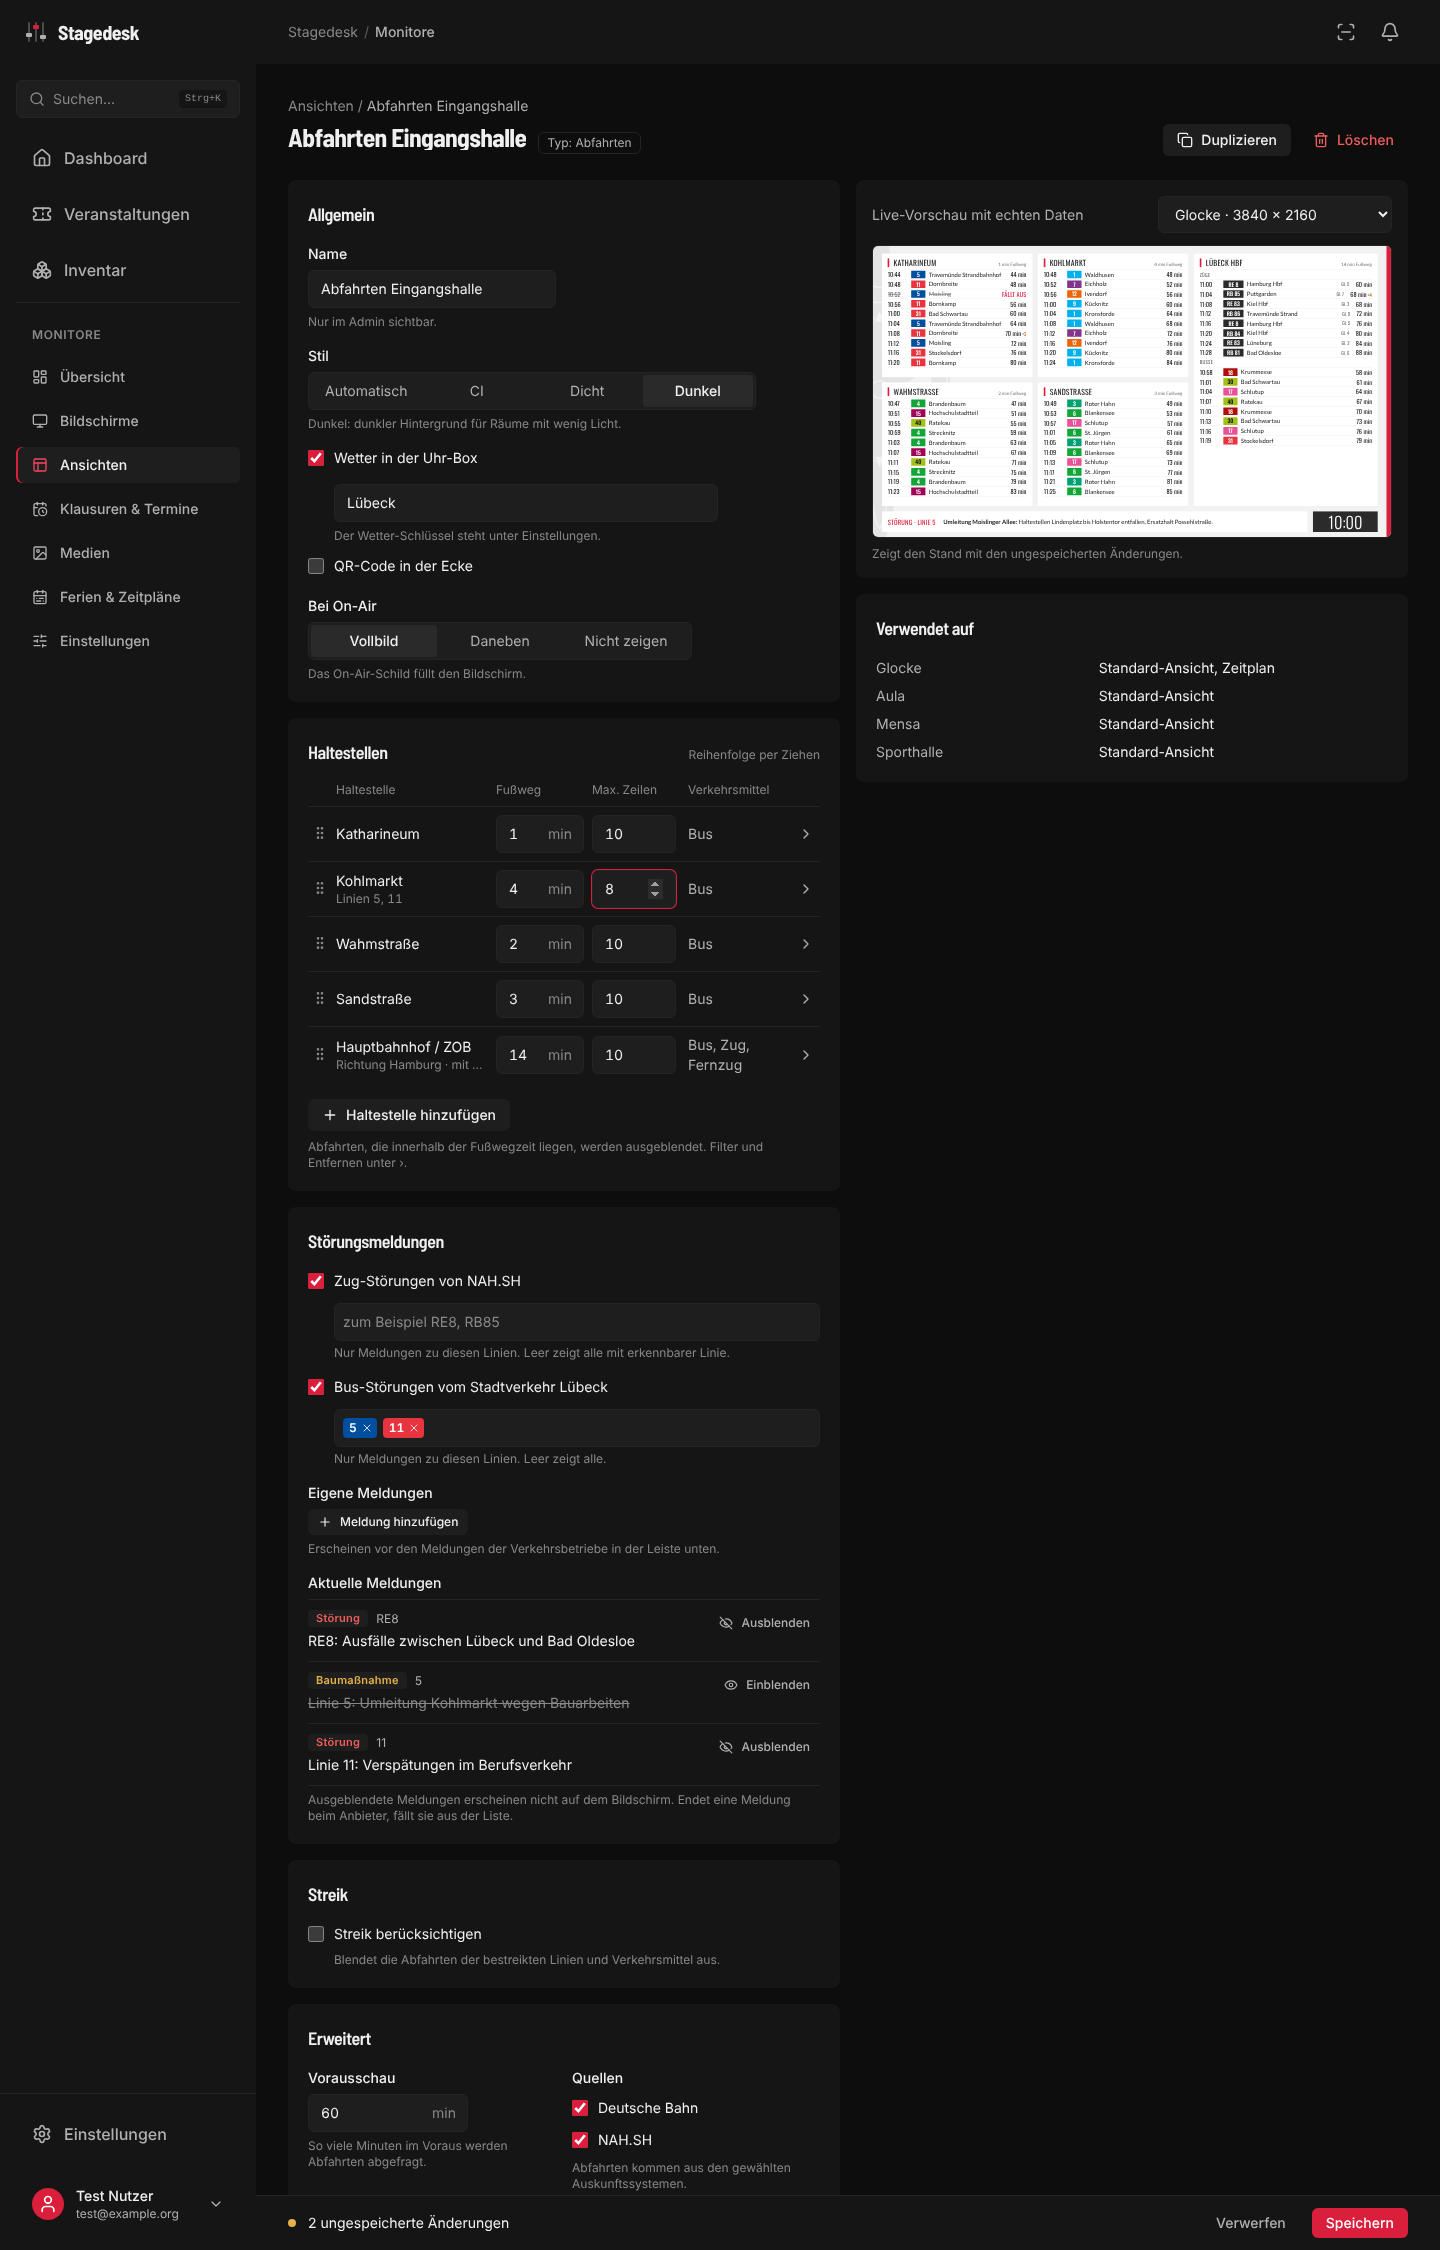
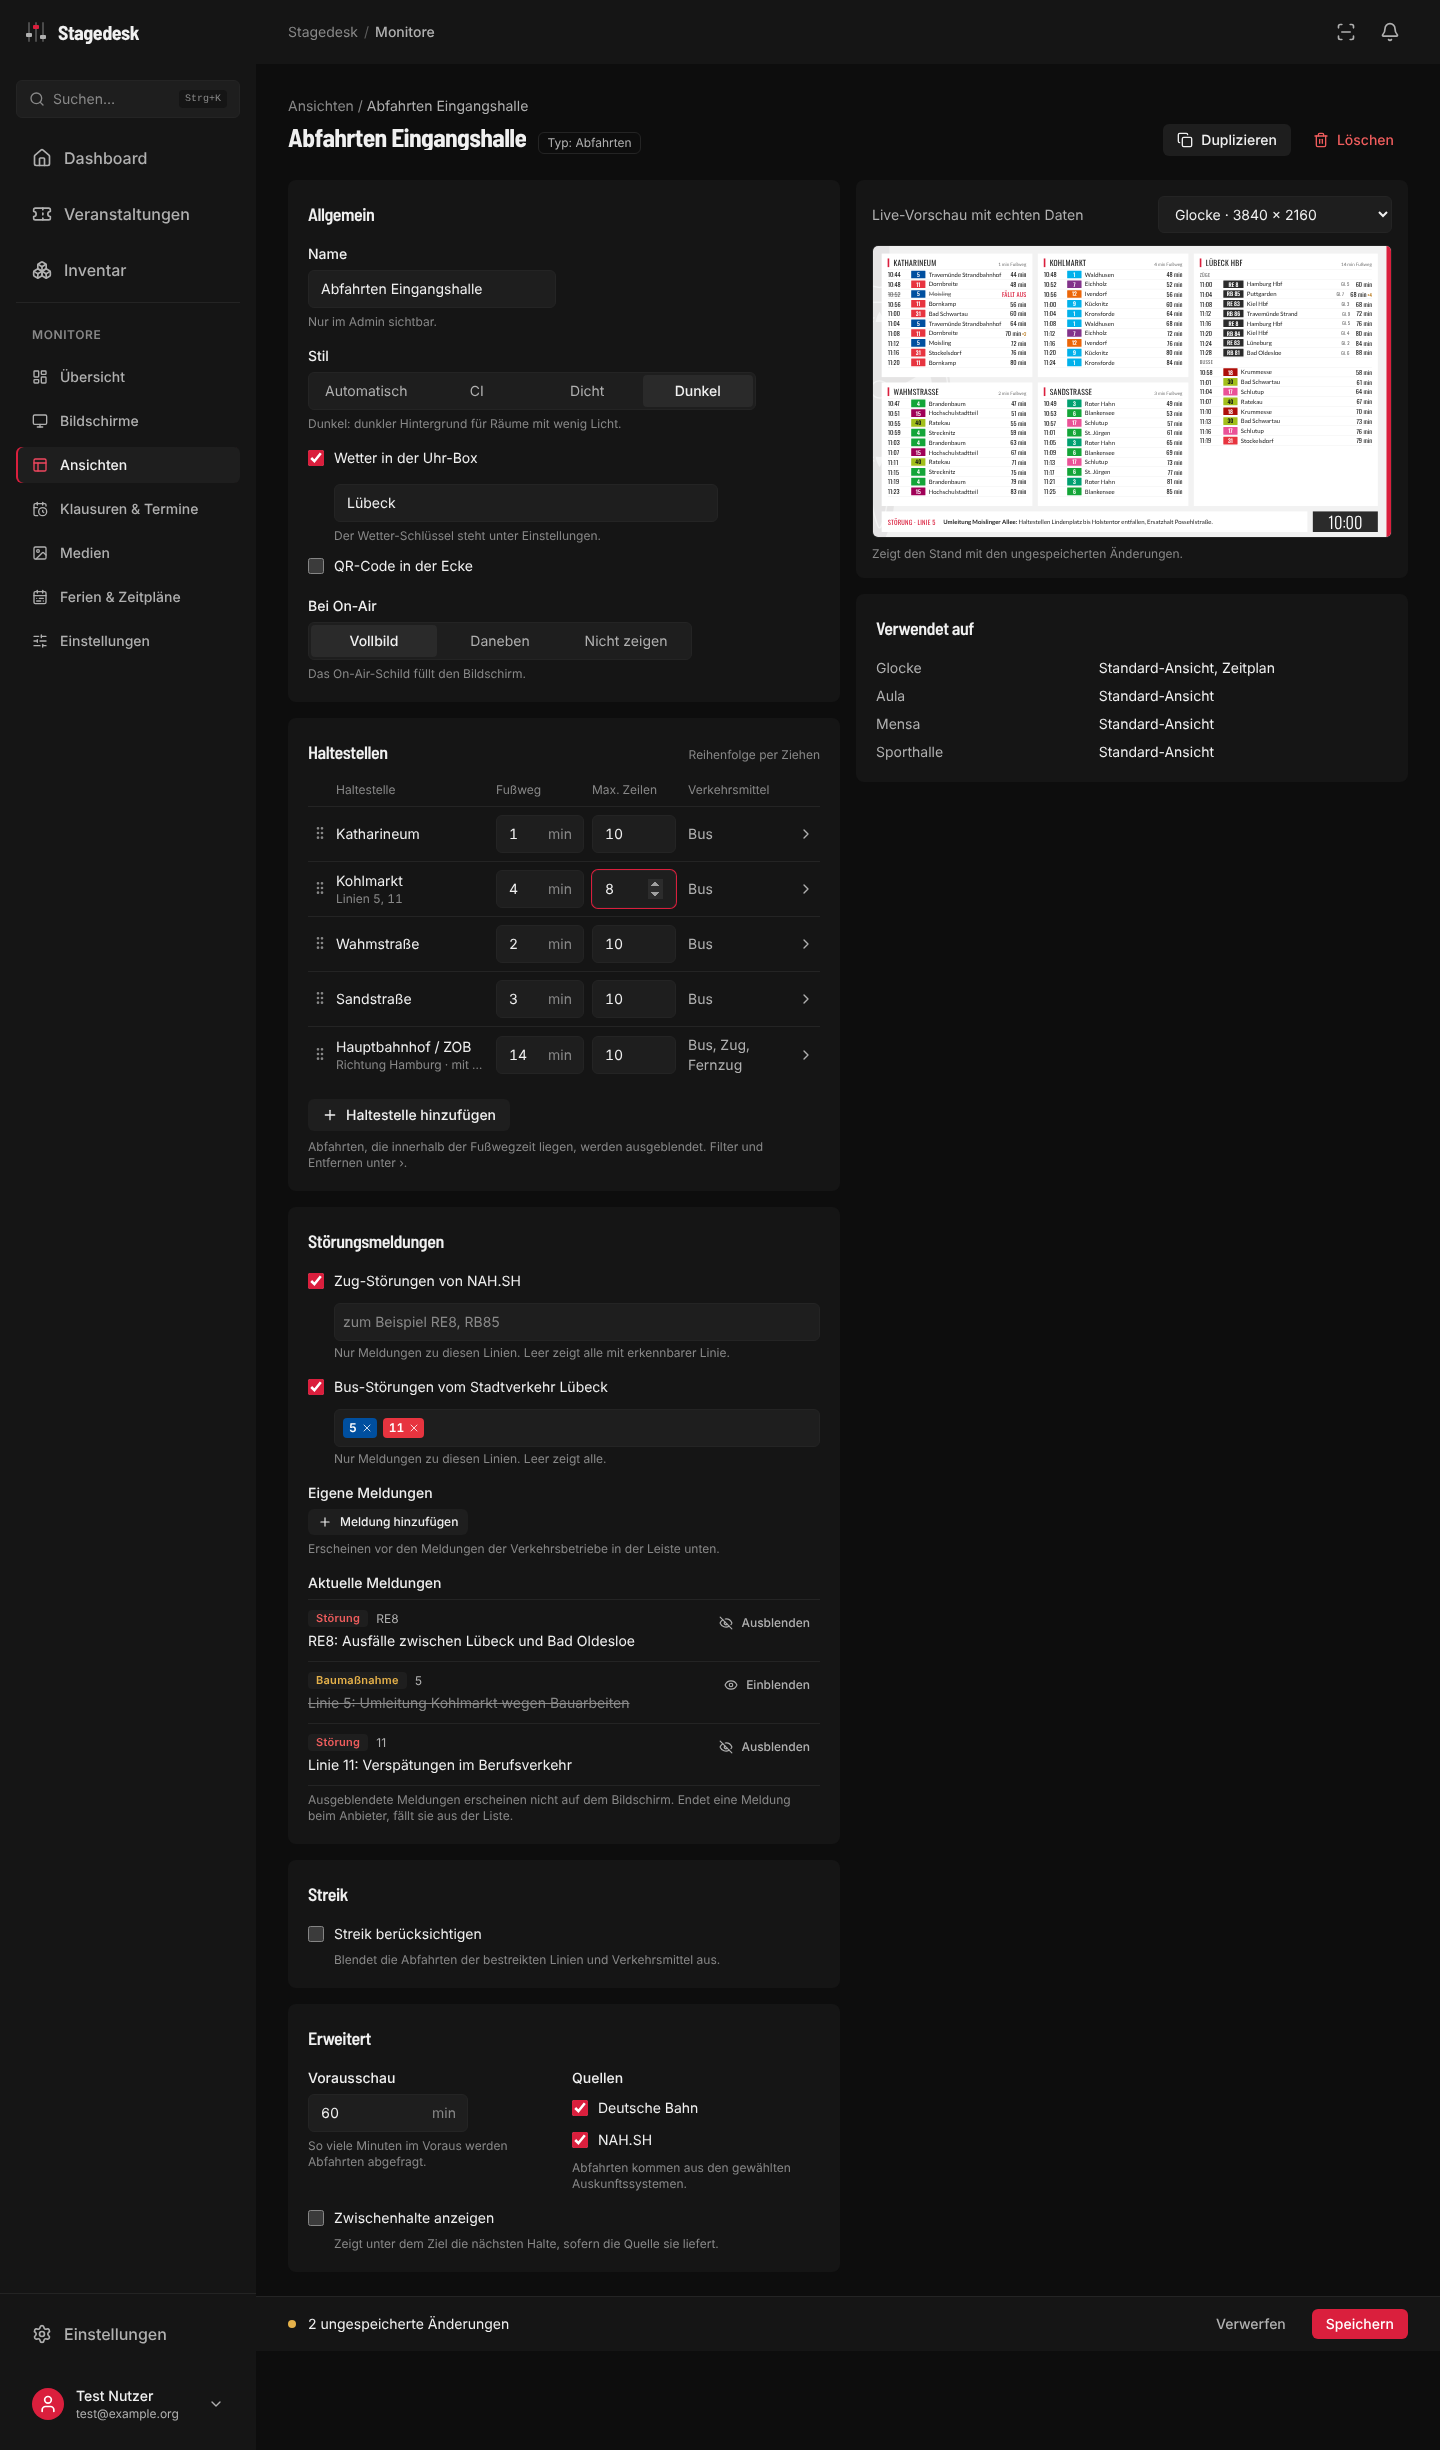
fix(monitor-admin): Einstellungen, Review-Runde 2
- Nach dem Speichern nur eines Passworts oder Wetter-Schlüssels beginnt der
  Entwurf neu (SaveBar weg, "Verbindung testen" wieder möglich); Entfernen
  eines Geheimnisses behält weiter die übrigen ungespeicherten Änderungen
- Aufnahme view-edit-departures höher, damit die SaveBar "Erweitert" nicht verdeckt

Claude-Session: https://claude.ai/code/session_01D7nDH9UeEyBKSeRzQw1WpF

diff --git a/frontend/src/components/monitor-admin/pages/Settings.jsx b/frontend/src/components/monitor-admin/pages/Settings.jsx
@@ -198,6 +198,9 @@ export default function Settings() {
   const [templateList, setTemplateList] = useState([])   // Entwurf
   const [clearing, setClearing] = useState(null)
   const [busy, setBusy] = useState(false)
+  // Zählt erfolgreiche Speichervorgänge: auch wenn nur ein Geheimnis gespeichert wurde (Werte bleiben ''), beginnt
+  // der Entwurf danach neu
+  const [savedRound, setSavedRound] = useState(0)
 
   const fetchAll = useCallback(() => Promise.allSettled([
     api.getSettings(),
@@ -224,9 +227,10 @@ export default function Settings() {
     return () => { alive = false }
   }, [fetchAll, apply])
 
-  // Ausgangsstand nur neu, wenn sich die Werte ändern: ein geänderter *_set-Schalter (Entfernen) setzt den Entwurf nicht zurück
-  const originalKey = settings ? JSON.stringify(pick(settings, [...SETUP_FIELDS, ...ON_AIR_FIELDS])) : null
-  const settingsOriginal = useMemo(() => (originalKey ? JSON.parse(originalKey) : null), [originalKey])
+  // Ausgangsstand neu, wenn sich die Werte ändern oder gespeichert wurde; ein geänderter *_set-Schalter (Entfernen)
+  // setzt den Entwurf nicht zurück
+  const originalKey = settings ? JSON.stringify([savedRound, pick(settings, [...SETUP_FIELDS, ...ON_AIR_FIELDS])]) : null
+  const settingsOriginal = useMemo(() => (originalKey ? JSON.parse(originalKey)[1] : null), [originalKey])
   const values = useDraft(settingsOriginal)
 
   const setupCount = settings ? changedIn(settingsOriginal, values.draft, SETUP_FIELDS) : 0
@@ -262,7 +266,10 @@ export default function Settings() {
       if (result) latest = result
       else settingsFailed = true
     }
-    if (latest && !settingsFailed) setSettings(latest)
+    if (latest && !settingsFailed) {
+      setSettings(latest)
+      setSavedRound((n) => n + 1)
+    }
     if (templateCount) {
       await run(async () => {
         const { create, update, remove } = templateChanges(templates, templateList)

diff --git a/frontend/src/components/monitor-admin/pages/Settings.test.jsx b/frontend/src/components/monitor-admin/pages/Settings.test.jsx
@@ -125,4 +125,18 @@ describe('Settings', () => {
     await mount()
     expect(container.querySelector('[data-section="transit"]')).toBeNull()
   })
+
+  it('nach dem Speichern nur eines neuen Passworts ist der Entwurf sauber und der Test wieder möglich', async () => {
+    perms.add('monitor.setup')
+    api.updateSettings.mockResolvedValue(settings())
+    await mount()
+    await act(async () => { typeInto(byLabel('Passwort'), 'neu') })
+    expect(container.textContent).toContain('1 ungespeicherte Änderung')
+    expect(button('Verbindung testen').disabled).toBe(true)
+    await click(button('Speichern'))
+    expect(api.updateSettings).toHaveBeenCalledWith({ webuntis_password: 'neu' })
+    expect(container.textContent).not.toContain('ungespeicherte Änderung')
+    expect(byLabel('Passwort').value).toBe('')
+    expect(button('Verbindung testen').disabled).toBe(false)
+  })
 })
